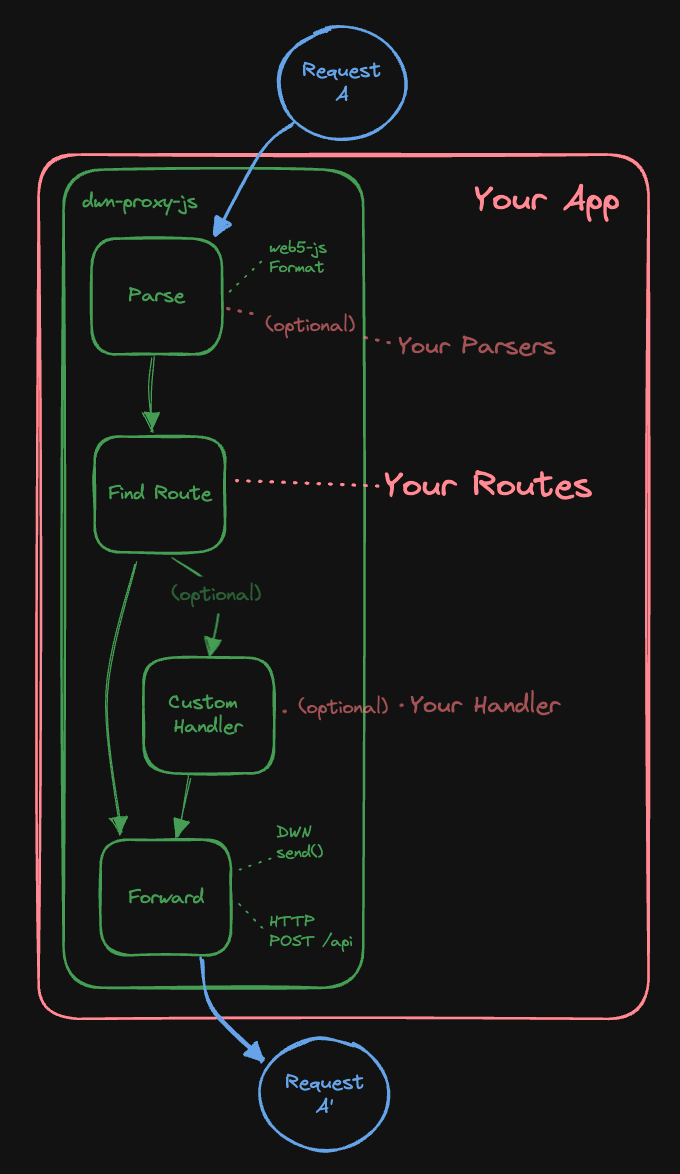
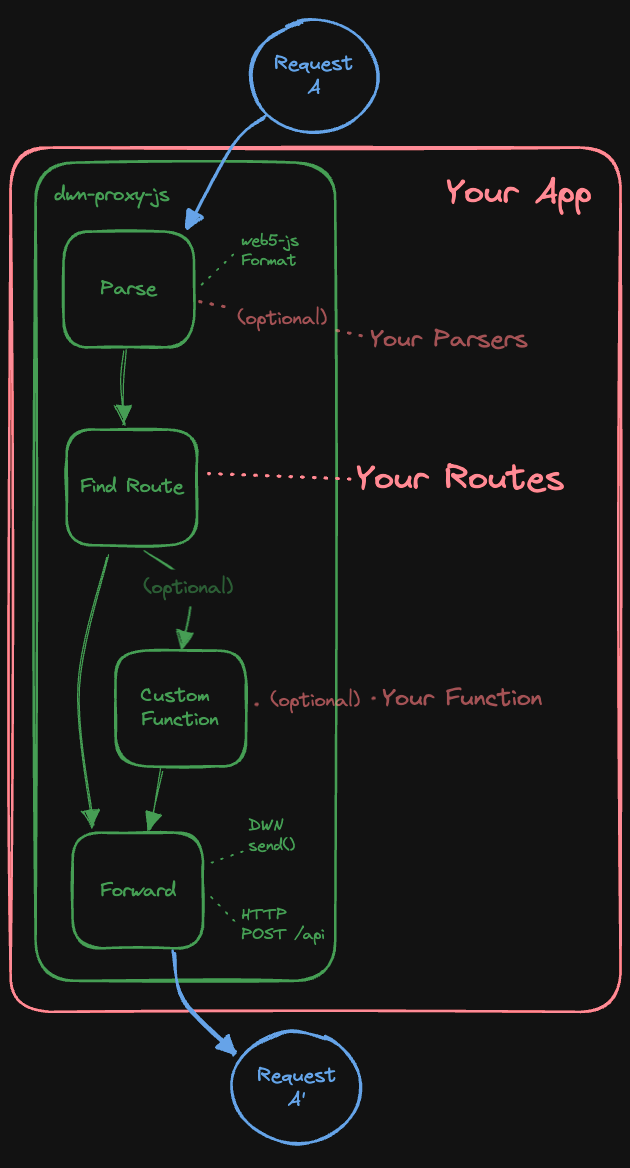
formalizing

diff --git a/README.md b/README.md
@@ -29,7 +29,7 @@ yourRoutes.add({
   schema: 'rfq',
   destination: 'developer.tbd.website/some-api/rfq',
   handler: (message: Message): Message => {
-    // some custom handler logic
+    // some custom function logic
     return {...message} // you can augment this thing here
   }
 });
@@ -44,19 +44,25 @@ Server.start(
 );
 ```
 
+## How It Works
+
 ![Process diagram](./images/process-diagram.png)
 
 ## Parsing
 
 ...
 
-## Auth
-
-...
-
 ## Routing
 
-...
+Routing is the process of mapping requests to destinations & optionally [Custom Functions](#custom-functions)
+
+## Custom Functions
+
+Custom functions allow...
+- Auth
+- Request augmentation
+
+TODO probably could offer common functions
 
 ## TODO design considerations
 
